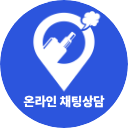
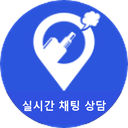
123

diff --git a/web/static/index.html b/web/static/index.html
@@ -8,7 +8,7 @@
   <link rel="preconnect" href="https://fonts.googleapis.com">
   <link rel="preconnect" href="https://fonts.gstatic.com" crossorigin>
   <link href="https://fonts.googleapis.com/css2?family=Manrope:wght@500;600;700;800&family=Noto+Sans+KR:wght@500;600;700;800&display=swap" rel="stylesheet">
-  <link rel="stylesheet" href="/static/styles.css?v=20261011-59">
+  <link rel="stylesheet" href="/static/styles.css?v=20261011-60">
 </head>
 <body>
   <div class="grain"></div>
@@ -25,7 +25,7 @@
     <a class="brand" href="#home"><span class="brand-logo-mark"><img src="/static/brand-mark.png" alt=""></span><span>V4P3</span> SP0T</a>
     <nav id="nav">
       <a href="#home">스토어</a><a href="#events" class="nav-alert-link">이벤트<span id="events-nav-dot" class="nav-alert-dot" aria-label="새 이벤트" hidden></span></a><a href="#notices" class="nav-alert-link">공지사항<span id="notices-nav-dot" class="nav-alert-dot" aria-label="새 공지" hidden></span></a><a href="#support">문의하기</a><a href="#account">정보등록</a><a href="#review-write">후기작성</a><a href="#ranking">구매랭킹</a><a href="#tiers">등급표</a><a href="#terms">이용약관</a><a href="#tracking">배송조회</a>
-      <a href="#admin" id="admin-link" hidden>관리자</a>
+      <a href="#admin" id="subadmin-admin-link" hidden>부관리자 관리</a><a href="#admin" id="admin-link" hidden>관리자</a>
     </nav>
     <div class="header-actions"><a class="button secondary small" href="#cart">장바구니 <b id="cart-count">0</b></a><button class="button small" id="login-button">Discord 로그인</button></div>
   </header>
@@ -390,12 +390,12 @@
   <div id="site-message" class="modal-backdrop" hidden><div class="modal-card notice-card"><div class="notice-content"><p id="site-message-type" class="eyebrow">NOTICE</p><h2 id="site-message-title">안내</h2><img id="site-message-image" class="site-message-image" alt="공지 이미지" hidden><p id="site-message-content"></p><div class="notice-actions"><button type="button" id="site-message-close" class="button secondary">닫기</button><button type="button" id="site-message-day" class="button">24시간 동안 안 보기</button></div></div></div></div>
   <div id="blocked-screen" class="blocked-screen" hidden><div class="panel"><p class="eyebrow">ACCESS BLOCKED</p><h1>블랙리스트에 등록되었습니다.</h1><p id="blocked-reason"></p><p>오류라고 생각되면 Discord 서버에서 문의 티켓을 열어 주세요.</p><a class="button" href="https://discord.gg/v4p3sp0t" target="_blank" rel="noopener">Discord에서 티켓 열기</a></div></div>
   <div id="welcome-coupon-modal" class="modal-backdrop welcome-coupon-modal" hidden><div class="modal-card welcome-coupon-card"><img src="/static/welcome-coupon.png" width="567" height="265" alt="V4P3 SP0T 웰컴 2,000원 할인쿠폰"><div><h2>WELCOME 쿠폰</h2><p>첫 구매 전용 · 1인 1회</p><button type="button" id="claim-welcome-coupon" class="button wide">쿠폰 받기</button></div></div></div>
-  <button type="button" id="chat-launcher" class="chat-launcher" aria-label="온라인 채팅상담"><img src="/static/chat-consultation-button.png" alt="온라인 채팅상담"></button>
+  <button type="button" id="chat-launcher" class="chat-launcher" aria-label="실시간 채팅 상담"><img src="/static/chat-consultation-button.png?v=20261011-2" alt="실시간 채팅 상담"></button>
   <section id="chat-panel" class="chat-panel" hidden aria-label="실시간 채팅상담">
     <header><div><small>V4P3 SP0T SUPPORT</small><h2>언제나 즐거운 베이핑,<br>V4P3 SP0T</h2><p id="chat-availability">상담시간을 확인하는 중입니다.</p></div><button type="button" id="chat-panel-close" aria-label="닫기">×</button></header>
     <div id="chat-home"><button type="button" id="chat-start" class="chat-start">채팅 상담</button><label id="chat-initial-wrap" hidden><span class="chat-compose-title"><b><i>✦</i> 문의 내용</b><small><span id="chat-initial-count">0</span>/1000</small></span><textarea id="chat-initial-content" maxlength="1000" placeholder="궁금한 내용을 편하게 작성해 주세요."></textarea><span class="chat-compose-hint">상담사가 확인한 뒤 실시간으로 답변해 드립니다.</span><button type="button" id="chat-create" class="button wide">상담 연결하기 <span>→</span></button></label><div><h3>상담 기록</h3><div id="chat-history" class="chat-history"></div></div></div>
     <div id="chat-room" hidden><button type="button" id="chat-back" class="text-button">← 상담 기록</button><div id="chat-messages" class="chat-messages"></div><form id="chat-message-form" class="chat-message-form"><div id="chat-upload-preview" class="chat-upload-preview" hidden><img alt="전송할 사진 미리보기"><span>사진 전송 중...</span></div><textarea name="content" maxlength="2000" rows="1" aria-label="채팅 메시지" placeholder="메시지를 입력해 주세요."></textarea><label class="chat-file" title="사진 첨부" aria-label="사진 첨부"><span aria-hidden="true">🖼</span><input name="image" type="file" accept="image/png,image/jpeg,image/webp,image/gif"></label><button class="button chat-send" type="submit" title="메시지 보내기" aria-label="메시지 보내기"><i aria-hidden="true">↑</i></button><small class="chat-enter-hint">사진은 선택 즉시 전송 · Enter 전송 · Shift+Enter 줄바꿈</small></form></div>
   </section>
-  <script src="/static/app.js?v=20261011-50"></script>
+<script src="/static/app.js?v=20261011-51"></script>
 </body>
 </html>

diff --git a/web/static/styles.css b/web/static/styles.css
@@ -79,12 +79,12 @@ button,a { -webkit-tap-highlight-color: transparent; }
 .admin-inquiry form { display: grid; gap: 8px; }
 .admin-inquiry textarea { min-height: 110px; }
 .subadmin-products { display: grid; grid-template-columns: repeat(auto-fit,minmax(210px,1fr)); gap: 7px; max-height: 360px; overflow-y: auto; padding: 10px; border: 1px solid var(--line); border-radius: 10px; }
-.chat-launcher { position: fixed; z-index: 110; right: 22px; bottom: 22px; width: 92px; height: 92px; padding: 0; border: 0; border-radius: 50%; background: transparent; box-shadow: 0 14px 38px #0009; cursor: pointer; overflow: hidden; transition: transform .18s ease, filter .18s ease; }
+.chat-launcher { position: fixed; z-index: 110; right: 22px; bottom: 22px; width: 108px; height: 108px; padding: 0; border: 0; border-radius: 50%; background: transparent; box-shadow: 0 14px 38px #0009; cursor: pointer; overflow: hidden; transition: transform .18s ease, filter .18s ease; }
 .chat-launcher:hover { transform: translateY(-2px) scale(1.03); filter: brightness(1.06); }
 .chat-launcher:active { transform: scale(.97); }
 .chat-launcher:focus-visible { outline: 3px solid #fff; outline-offset: 3px; }
 .chat-launcher img { display: block; width: 100%; height: 100%; border-radius: 50%; object-fit: contain; }
-.chat-panel { position: fixed; z-index: 109; right: 22px; bottom: 124px; width: min(390px,calc(100vw - 28px)); height: min(680px,calc(100vh - 155px)); overflow: hidden; border: 1px solid #2c7750; border-radius: 26px; background: #09100c; box-shadow: 0 24px 80px #000c; }
+.chat-panel { position: fixed; z-index: 109; right: 22px; bottom: 142px; width: min(390px,calc(100vw - 28px)); height: min(680px,calc(100vh - 173px)); overflow: hidden; border: 1px solid #2c7750; border-radius: 26px; background: #09100c; box-shadow: 0 24px 80px #000c; }
 .chat-panel>header { position: relative; padding: 25px 24px 22px; background: linear-gradient(145deg,#133a27,#0b1f15); }
 .chat-panel>header small { color: var(--accent); font-weight: 800; letter-spacing: .12em; }
 .chat-panel>header h2 { margin: 8px 0; font-size: 23px; line-height: 1.3; }
@@ -137,7 +137,7 @@ button,a { -webkit-tap-highlight-color: transparent; }
 .chat-send i { display: grid; place-items: center; font-size: 19px; font-style: normal; line-height: 1; }
 .chat-enter-hint { grid-column: 1 / -1; padding-left: 3px; color: #66776d; font-size: 9px; }
 @media (max-width:420px) { .chat-message-form { grid-template-columns:minmax(0,1fr) 40px 40px; } }
-@media (max-width:650px) { .admin-inquiry { grid-template-columns:1fr; } .chat-launcher { right:14px; bottom:14px; } .chat-panel { right:14px; bottom:116px; } }
+@media (max-width:650px) { .admin-inquiry { grid-template-columns:1fr; } .chat-launcher { right:14px; bottom:14px; width:100px; height:100px; } .chat-panel { right:14px; bottom:126px; } }
 
 .site-header { width: 100%; min-height: 72px; display: flex; flex-direction: row; align-items: center; gap: 22px; padding: 12px clamp(18px,3vw,48px); border-bottom: 1px solid var(--line); position: sticky; left: 0; top: 0; background: rgba(8,13,10,.97); backdrop-filter: blur(14px); z-index: 50; }
 .brand { display: inline-flex; align-items: center; flex: 0 0 auto; gap: 5px; color: var(--text); font-size: 23px; font-weight: 800; letter-spacing: -1px; text-decoration: none; margin: 0 8px 0 0; padding: 0; border: 0; white-space: nowrap; }

diff --git a/web/static/app.js b/web/static/app.js
@@ -35,6 +35,7 @@ const state = {
   chatPoll: null,
   adminInquiries: [],
   subadmins: [],
+  requestedAdminSection: null,
 };
 
 const $ = (selector, parent = document) => parent.querySelector(selector);
@@ -165,6 +166,7 @@ async function boot() {
     }
     $("#login-button").textContent = "내 정보";
     $("#admin-link").hidden = !data.is_admin;
+    $("#subadmin-admin-link").hidden = !data.is_admin;
     $("#login-button").onclick = () => { location.hash = "account"; };
     await loadCart();
     await refreshRegistrationPrompt();
@@ -1140,6 +1142,10 @@ function bindForms() {
   $("#refresh-admin-inquiries").onclick = loadAdminInquiries;
   $("#refresh-subadmins").onclick = loadSubadmins;
   $("#subadmin-form").onsubmit = saveSubadmin;
+  $("#subadmin-admin-link").onclick = () => {
+    state.requestedAdminSection = "subadmins";
+    if (location.hash === "#admin") setAdminSection("subadmins");
+  };
   $("#refresh-admin-coupon-events").onclick = loadAdminCouponEvents;
   $("#point-admin-form").onsubmit = saveAdminPoints;
   $("#coupon-admin-form").onsubmit = issueCoupon;
@@ -1326,9 +1332,10 @@ async function loadSubadmins() {
 
 async function saveSubadmin(event) {
   event.preventDefault();
-  const data = Object.fromEntries(new FormData(event.currentTarget));
-  data.product_ids = [...event.currentTarget.querySelectorAll('[name="product_ids"]:checked')].map(input => Number(input.value));
-  try { await api("/api/admin/subadmins", { method: "POST", body: JSON.stringify(data) }); event.currentTarget.reset(); await loadSubadmins(); toast("부관리자와 담당 상품을 저장했습니다."); }
+  const form = event.currentTarget;
+  const data = Object.fromEntries(new FormData(form));
+  data.product_ids = [...form.querySelectorAll('[name="product_ids"]:checked')].map(input => Number(input.value));
+  try { await api("/api/admin/subadmins", { method: "POST", body: JSON.stringify(data) }); form.reset(); await loadSubadmins(); toast("부관리자와 담당 상품을 저장했습니다."); }
   catch (error) { toast(error.message); }
 }
 
@@ -1455,7 +1462,8 @@ async function openAdminPanel() {
   }
   setAdminSection("dashboard");
   await loadAdmin();
-  const requested = new URLSearchParams(location.search).get("admin_section");
+  const requested = state.requestedAdminSection || new URLSearchParams(location.search).get("admin_section");
+  state.requestedAdminSection = null;
   if (requested) setAdminSection(requested);
 }
 
